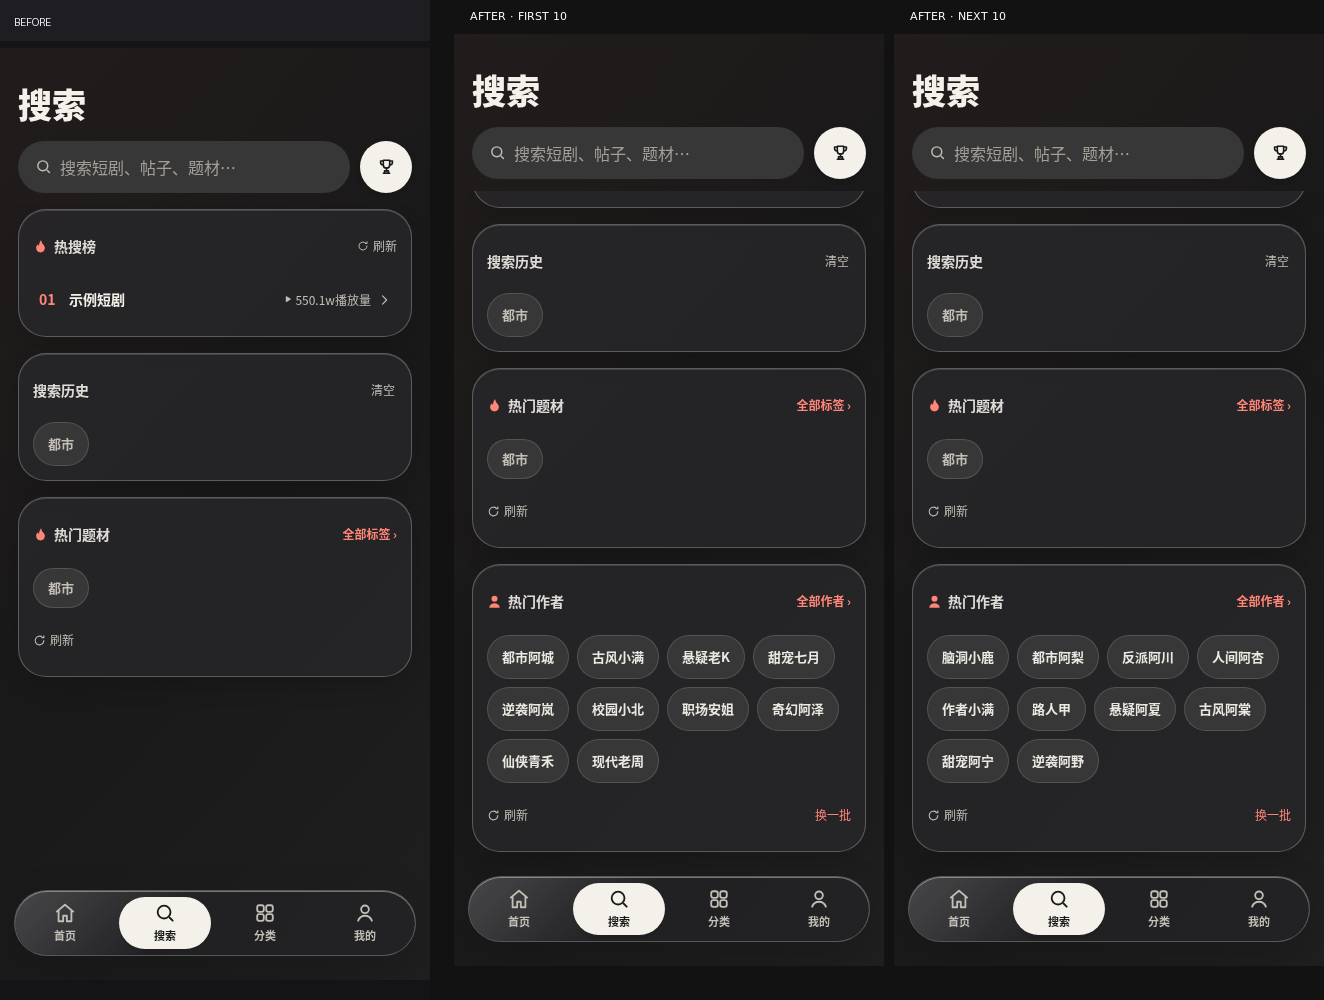
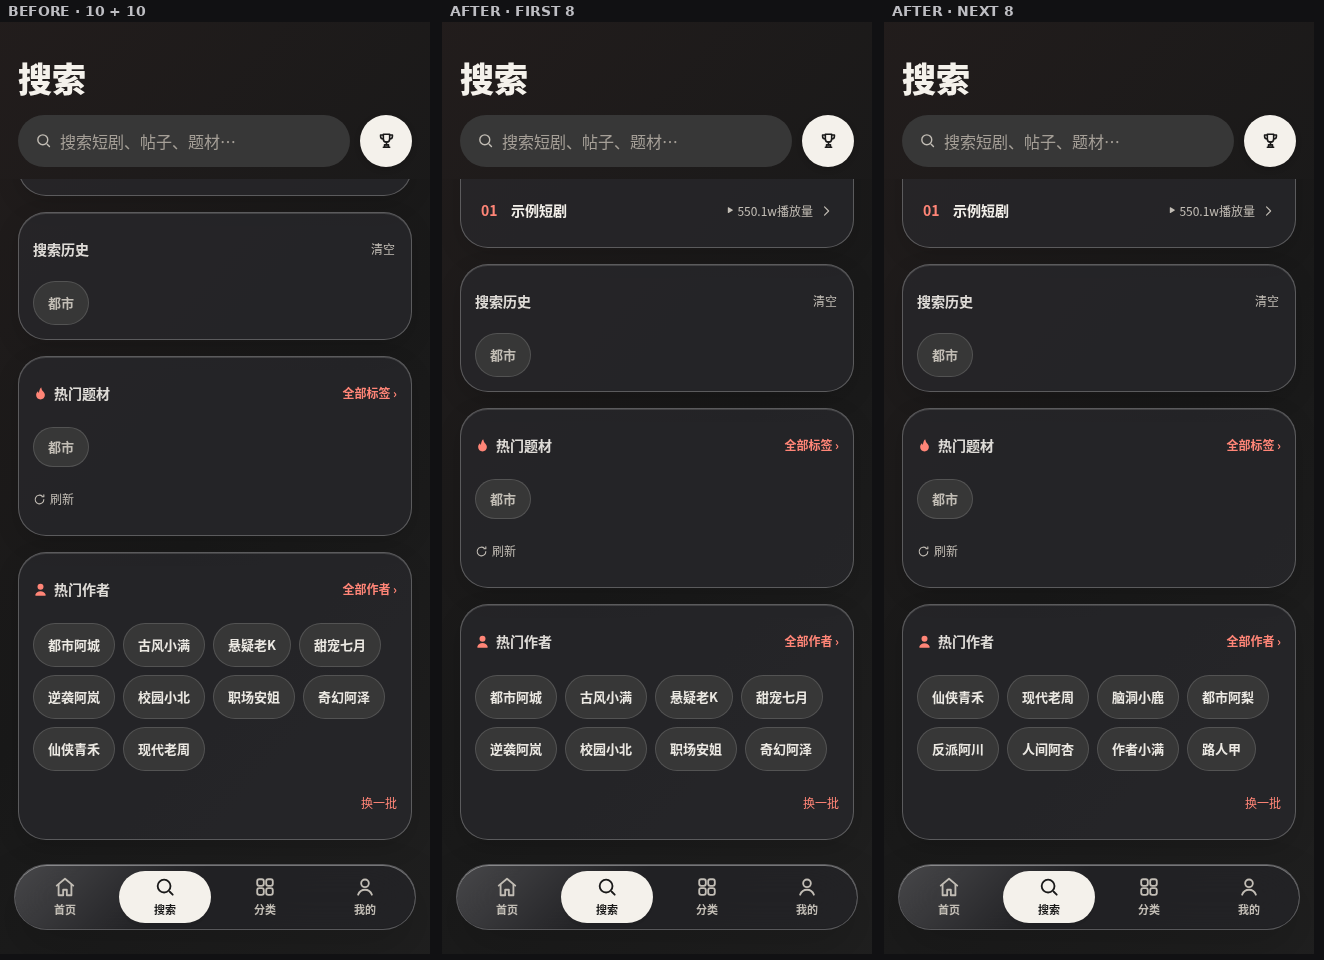
fix(authors): show hot authors in two batches of eight

diff --git a/src/features/authors/SearchAuthors.tsx b/src/features/authors/SearchAuthors.tsx
@@ -7,8 +7,8 @@ import { AuthorChip } from "./AuthorChip";
 import { useAuthorFollow } from "./useAuthorFollow";
 import { loadAuthors, subscribeAuthors, type AuthorItem } from "./authorDirectory";
 
-const TOP_COUNT = 20;
-const BATCH_SIZE = 10;
+const TOP_COUNT = 16;
+const BATCH_SIZE = 8;
 
 /** Popular authors on the search landing page, with hold-to-follow author chips. */
 export function SearchAuthors({ active }: { active: boolean }) {
